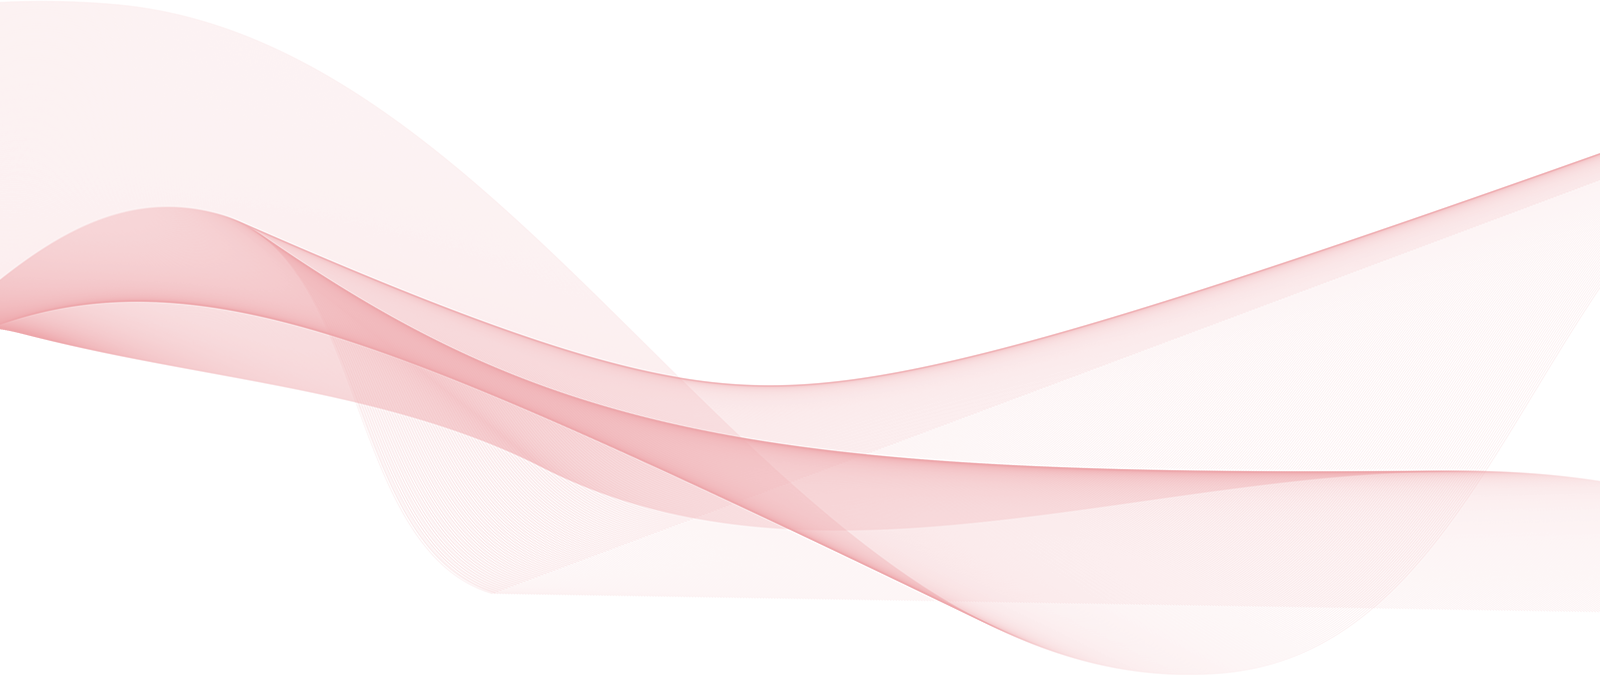
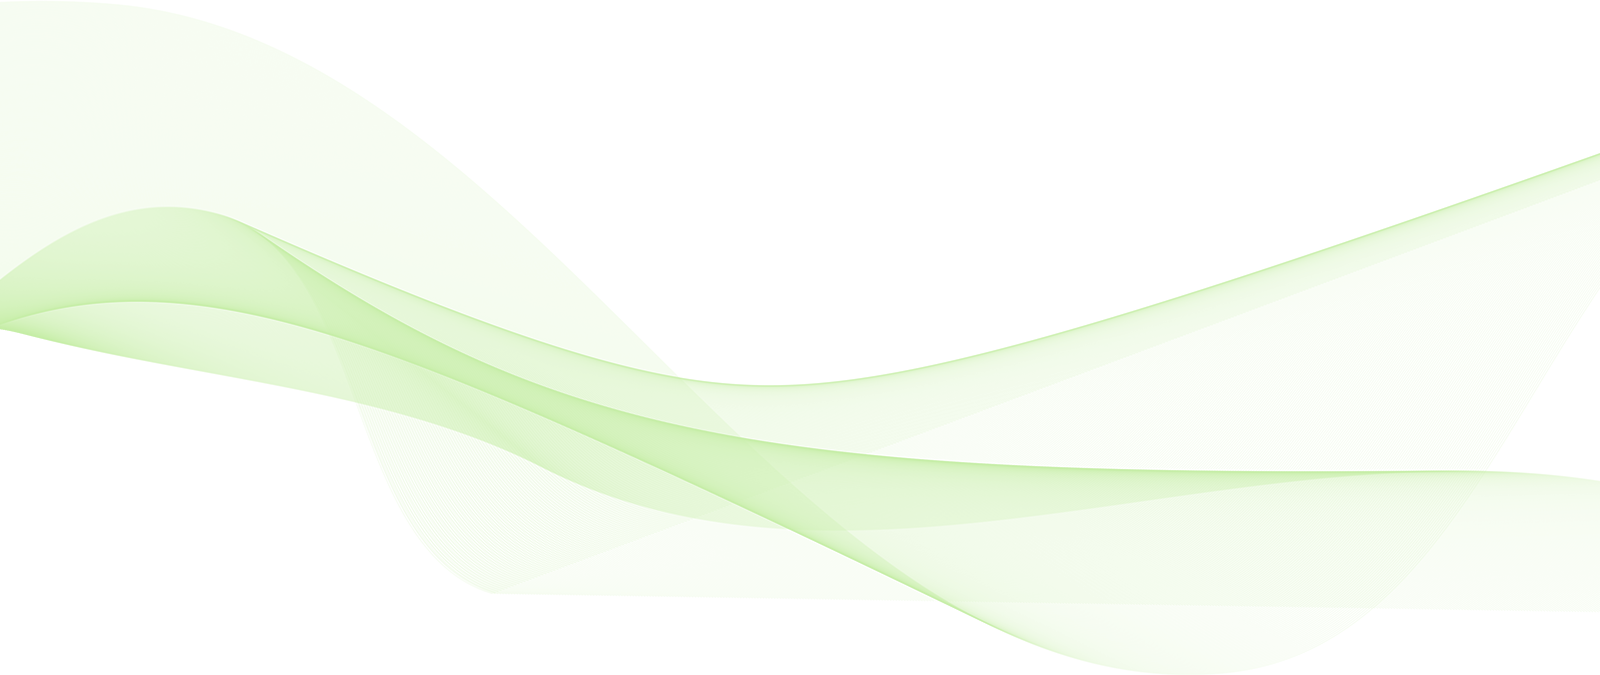
change color

diff --git a/css/index.css b/css/index.css
@@ -11,9 +11,9 @@ a
 
 a:hover
 {
-	text-shadow: 1px 1px 2px rgba(223,92,100,0.8);
+	text-shadow: 1px 1px 2px rgba(130,180,64,0.8);
 }
-/*b24a50*/
+/*82b440 82b440*/
 /*主页页面背景图*/
 .main-img
 {
@@ -57,7 +57,7 @@ header
 	overflow: hidden;
 	padding: 0 50px;
 	border: 1px solid #fff;
-	box-shadow: 1px 1px 5px #b24a50;
+	box-shadow: 1px 1px 5px #82b440;
 }
 
 .mini-nav
@@ -76,7 +76,7 @@ header
 
 .normal-nav .logo a
 {
-	color: #b24a50;
+	color: #82b440;
 	font-size: 22px;
 	padding: 0 20px;
 	font-weight: 800;
@@ -108,14 +108,14 @@ header
 
 .normal-nav .active
 {
-	background: rgba(223,92,100,0.8);
+	background: rgba(130,180,64,0.8);
 	border-radius: 0 0 8px 8px;
 	box-shadow: 0 4px 5px #fff;
 }
 
 .normal-nav .menu ul li a:hover
 {
-	background: rgba(223,92,100,0.6);
+	background: rgba(130,180,64,0.6);
 	border-radius: 0 0 8px 8px;
 	box-shadow: 0 4px 5px #fff;
 }
@@ -132,7 +132,7 @@ header
 
 .mini-nav .logo a
 {
-	color: #b24a50;
+	color: #82b440;
 	font-size: 22px;
 	padding: 0 20px;
 	font-weight: 800;
@@ -142,7 +142,7 @@ header
 .mini-nav span
 {
 	/*display: none;*/
-	color: #B24A50;
+	color: #82b440;
 	font-weight: bold;
 	float: right;
 	line-height: 40px;
@@ -164,7 +164,7 @@ header
 
 .mini-nav span:hover
 {
-	text-shadow: 1px 1px 2px rgba(223,92,100,0.8);
+	text-shadow: 1px 1px 2px rgba(130,180,64,0.8);
 }
 
 .mini-nav .minimenu ul
@@ -196,14 +196,14 @@ header
 
 .mini-nav .active
 {
-	background: rgba(223,92,100,0.8);
+	background: rgba(130,180,64,0.8);
 	border-radius: 6px;
-	/*box-shadow: 0 4px 5px #B24A50;*/
+	/*box-shadow: 0 4px 5px #82b440;*/
 }
 
 .mini-nav .minimenu ul li a:hover
 {
-	background: rgba(223,92,100,0.6);
+	background: rgba(130,180,64,0.6);
 	border-radius: 6px;
 	box-shadow: 0 4px 5px #fff;
 }
@@ -229,7 +229,7 @@ header
 	background: rgba(255,255,255,0.8);
 	padding: 20px;
 	border-radius: 10px;
-	box-shadow: 1px 1px 6px #b24a50;
+	box-shadow: 1px 1px 6px #82b440;
 	/*text-align: center;*/
 }
 
@@ -243,7 +243,7 @@ header
 
 #welcome h1,a
 {
-	color: #b24a50;
+	color: #82b440;
 }
 
 
@@ -254,7 +254,7 @@ header
 
 .title a
 {
-	color: #b24a50;
+	color: #82b440;
 	font-size: 30px;
 	padding: 10px 0;
 }
@@ -290,7 +290,7 @@ header
 
 .right a
 {
-	color: #b24a50;
+	color: #82b440;
 }
 
 .recent
@@ -298,7 +298,7 @@ header
 	font-size: 20px;
 	background: rgba(255,255,255,0.8);
 	border-radius: 10px;
-	box-shadow: 1px 1px 6px #b24a50;
+	box-shadow: 1px 1px 6px #82b440;
 	padding: 20px;
 	margin-bottom: 20px;
 }
@@ -321,7 +321,7 @@ header
 	padding: 20px;
 	background: rgba(255,255,255,0.8);
 	border-radius: 10px;
-	box-shadow: 1px 1px 6px #b24a50;
+	box-shadow: 1px 1px 6px #82b440;
 	margin: 20px 0;
 }
 
